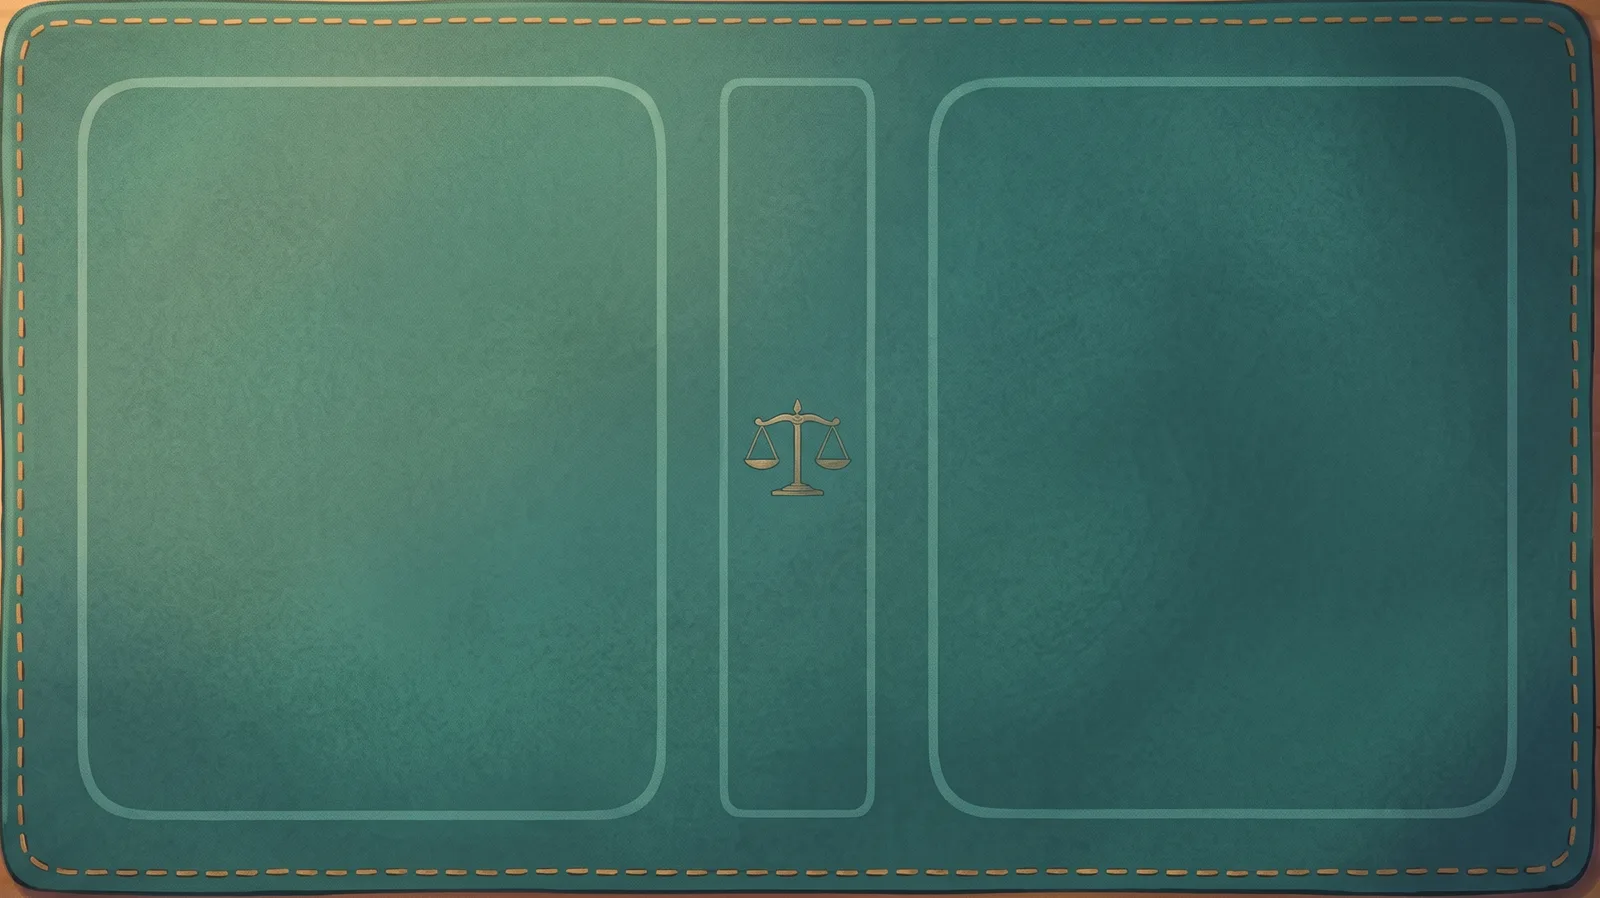
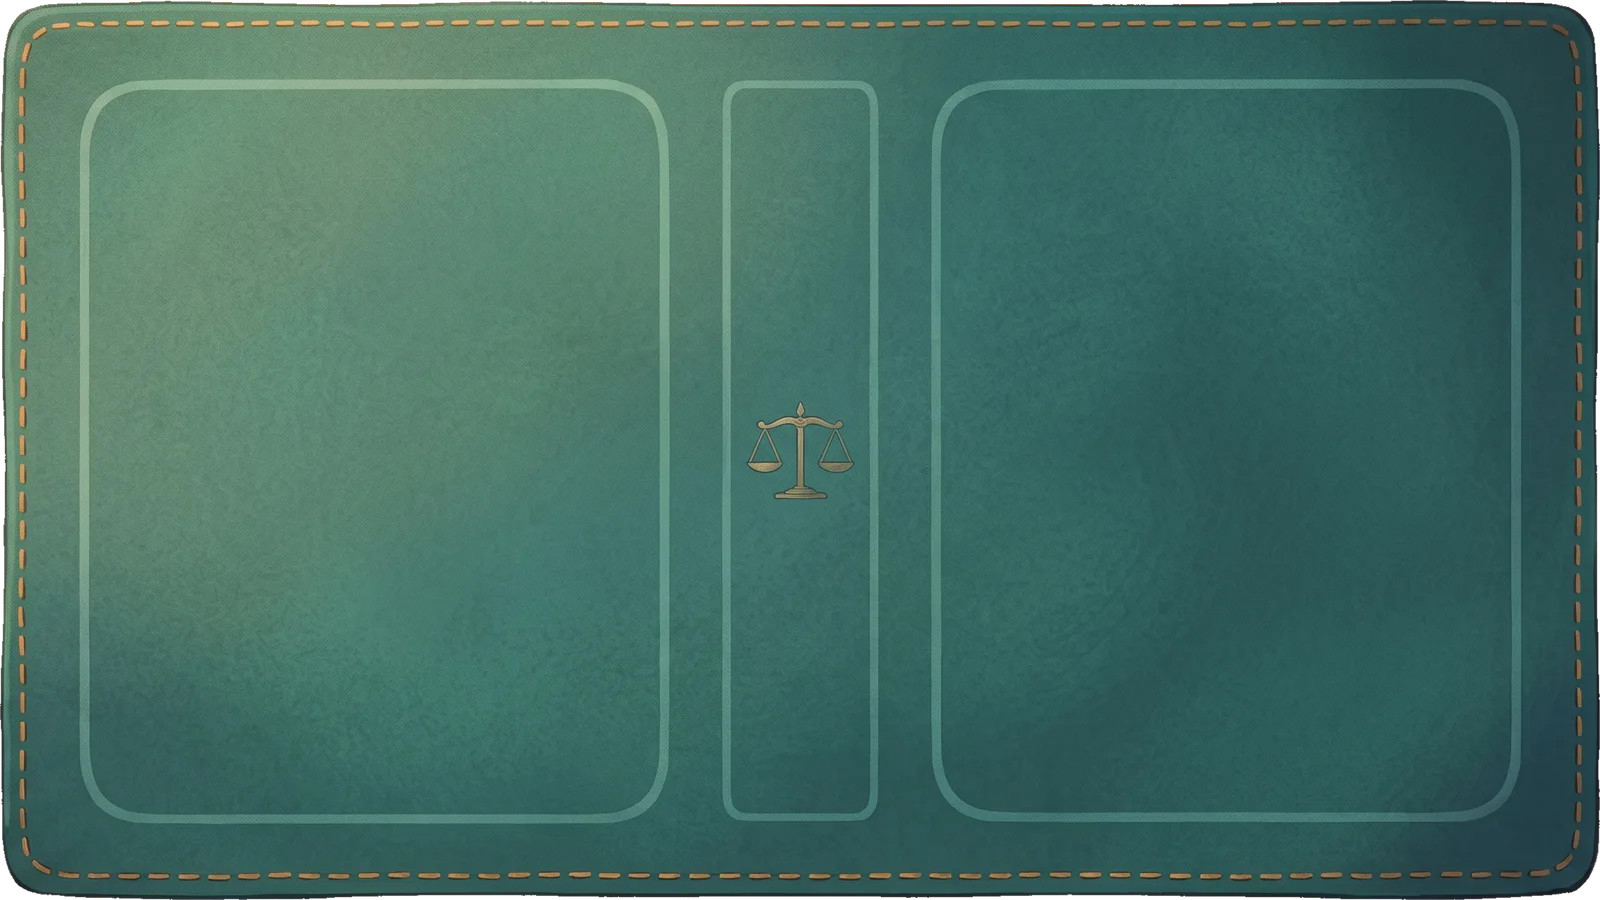
Trade mat: the playmat cut out of its desk, zones measured again; the search's scans load; Esc closes the sheet on top

diff --git a/src/components/trade/TradeMat.module.css b/src/components/trade/TradeMat.module.css
@@ -23,7 +23,7 @@
   --get: #9de07a;
   --gold: #ffd35a;
   /* the mat's shape, and the room the title and the button take */
-  --ar: 0.584;
+  --ar: 0.6;
   --chrome: 128px;
   display: flex;
   flex-direction: column;
@@ -65,29 +65,29 @@
   border-color: rgba(244, 236, 220, 0.5);
 }
 
+/* the mat, cut out of its desk (scripts/build-trade-mat.mjs): its shadow follows its painted edge */
 .mat {
   position: relative;
   width: 100%;
   aspect-ratio: var(--ar);
-  border-radius: 3%;
-  background: url(/trade/mat-phone.webp) center / 100% 100%, #2a6460;
-  box-shadow: 10px 14px 0 rgba(10, 6, 16, 0.55);
+  background: url(/trade/mat-phone.webp) center / 100% 100% no-repeat;
+  filter: drop-shadow(10px 14px 0 rgba(10, 6, 16, 0.55));
 }
 
 /* a zone, on its painted frame */
 .zone {
   position: absolute;
-  left: 10.2%;
-  width: 79.6%;
-  height: 36.2%;
+  left: 10.6%;
+  width: 78.9%;
+  height: 37.2%;
 }
 
 .give {
-  top: 5.8%;
+  top: 6%;
 }
 
 .get {
-  top: 55%;
+  top: 56.4%;
 }
 
 .zone header {
@@ -211,8 +211,8 @@
   position: absolute;
   left: 12%;
   right: 12%;
-  /* the verdict under the top zone, the bar on the painted band (48.5 %) */
-  top: 42.6%;
+  /* the verdict under the top zone, the bar on the painted band (49.7 %) */
+  top: 43.8%;
   display: flex;
   flex-direction: column;
   justify-content: flex-start;
@@ -324,7 +324,7 @@
 /* a wide screen: the mat flat, the zones side by side, the verdict on the band between them */
 @media (min-aspect-ratio: 1/1) and (min-width: 700px) {
   .shell {
-    --ar: 1.782;
+    --ar: 1.778;
     --chrome: 150px;
   }
 
@@ -339,15 +339,15 @@
   .zone {
     top: 8.9%;
     width: 36.6%;
-    height: 82.1%;
+    height: 82.2%;
   }
 
   .give {
-    left: 5%;
+    left: 5.1%;
   }
 
   .get {
-    left: 58.1%;
+    left: 58.3%;
   }
 
   .lay {
@@ -368,8 +368,8 @@
   }
 
   .weigh {
-    left: 41.6%;
-    right: 41.9%;
+    left: 41.7%;
+    right: 41.6%;
     top: 57%;
     height: auto;
   }

diff --git a/src/components/trade/TradeMat.tsx b/src/components/trade/TradeMat.tsx
@@ -57,7 +57,8 @@ export default function TradeMat({ onClose, seed }: { onClose: () => void; seed?
   }, [items, cards]);
   useEffect(() => {
     const onKey = (e: KeyboardEvent) => {
-      if (e.key !== "Escape" || (e.target as HTMLElement)?.tagName === "INPUT") return;
+      // (even from the search field: Esc closes what is on top)
+      if (e.key !== "Escape") return;
       e.stopPropagation();
       if (editing) setEditing(null);
       else if (adding) setAdding(null);
@@ -226,6 +227,9 @@ function AddSheet({ side, money, onPick, onClose }: { side: Side; money: "EUR" |
   const site = useLang();
   const collection = useStore((s) => s.collection);
   const indexes = useSets((s) => s.index);
+  // the index keeps the scans' addresses short: their common start is apart
+  const assets = useSets((s) => s.assets);
+  const scan = (img: string) => `${img.startsWith("http") ? "" : assets}${img}/low.webp`;
   const [tab, setTab] = useState<"mine" | "all">(side === "give" ? "mine" : "all");
   const [langs, setLangs] = useState<CardLang[]>([site]);
   const [q, setQ] = useState("");
@@ -297,7 +301,7 @@ function AddSheet({ side, money, onPick, onClose }: { side: Side; money: "EUR" |
             const copy = copies?.find((c) => !c.at) ?? copies?.[0];
             return (
               <button key={r.key} className={styles.res} onClick={() => onPick(r, tab === "mine" ? copy : undefined)} onPointerEnter={sfx.hover}>
-                {r.img ? <img src={`${r.img}/low.webp`} alt="" loading="lazy" /> : <span className={styles.noimg} />}
+                {r.img ? <img src={scan(r.img)} alt="" loading="lazy" /> : <span className={styles.noimg} />}
                 <span className={styles.resTxt}>
                   {r.name}
                   <small>
